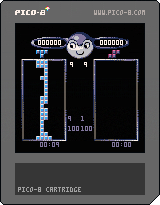
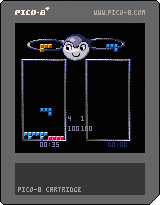
release: new html and png

Changed region(s): [[0.125, 0.1463, 0.875, 0.7317]]

diff --git a/release/tegim.js b/release/tegim.js
@@ -68,28 +68,28 @@ var _cartdat=[
 0,0,0,0,0,0,0,0,0,0,0,0,0,0,0,0,0,16,0,0,0,0,0,0,0,0,0,0,0,0,0,0,0,0,0,0,0,0,0,0,0,0,0,0,0,0,0,0,0,0,0,0,0,0,0,0,0,0,0,0,0,0,0,0,0,0,0,0,0,0,0,0,0,0,0,0,0,0,0,0,0,0,0,0,0,16,0,0,0,0,0,0,0,0,0,0,0,0,0,0,0,0,0,0,0,0,0,0,0,0,0,0,0,0,0,0,0,0,0,0,0,0,0,0,0,0,0,0,0,0,0,0,0,0,0,0,0,0,0,0,0,0,0,0,0,0,0,0,0,0,0,0,0,16,0,0,0,0,0,0,0,0,0,0,0,0,0,0,0,0,0,0,0,0,0,0,0,0,0,0,0,0,0,0,0,0,0,0,0,0,0,0,0,0,0,0,0,0,0,0,0,0,0,0,0,0,0,0,0,0,0,0,0,0,0,0,0,0,0,0,0,16,0,0,0,0,0,0,0,0,0,0,0,0,0,0,0,0,0,0,0,0,0,0,0,0,0,0,0,0,0,0,0,0,0,0,
 0,0,0,0,0,0,0,0,0,0,0,0,0,0,0,0,0,0,0,0,0,0,0,0,0,0,0,0,0,0,0,0,0,16,0,0,0,0,0,0,0,0,0,0,0,0,0,0,0,0,0,0,0,0,0,0,0,0,0,0,0,0,0,0,0,0,0,0,0,0,0,0,0,0,0,0,0,0,0,0,0,0,0,0,0,0,0,0,0,0,0,0,0,0,0,0,0,0,0,0,0,16,0,0,0,0,0,0,0,0,0,0,0,0,0,0,0,0,0,0,0,0,0,0,0,0,0,0,0,0,0,0,0,0,0,0,0,0,0,0,0,0,0,0,0,0,0,0,0,0,0,0,0,0,0,0,0,0,0,0,0,0,0,0,0,0,0,0,0,16,0,0,0,0,0,0,0,0,0,0,0,0,0,0,0,0,0,0,0,0,0,0,0,0,0,0,0,0,0,0,0,0,0,0,0,0,0,0,0,0,0,0,0,0,0,0,0,0,0,0,0,0,0,0,0,0,0,0,0,0,0,0,0,0,0,0,0,16,0,0,0,0,0,0,0,0,0,0,0,0,0,0,0,0,0,0,
 0,0,0,0,0,0,0,0,0,0,0,0,0,0,0,0,0,0,0,0,0,0,0,0,0,0,0,0,0,0,0,0,0,0,0,0,0,0,0,0,0,0,0,0,0,0,0,0,0,16,0,0,0,0,0,0,0,0,0,0,0,0,0,0,0,0,0,0,0,0,0,0,0,0,0,0,0,0,0,0,0,0,0,0,0,0,0,0,0,0,0,0,0,0,0,0,0,0,0,0,0,0,0,0,0,0,0,0,0,0,0,0,0,0,0,0,0,16,0,0,0,0,0,0,0,0,0,0,0,0,0,0,0,0,0,0,0,0,0,0,0,0,0,0,0,0,0,0,0,0,0,0,0,0,0,0,0,0,0,0,0,0,0,0,0,0,0,0,0,0,0,0,0,0,0,0,0,0,0,0,0,0,0,0,0,16,0,0,0,0,0,0,0,0,0,0,0,0,0,0,0,0,0,0,0,0,0,0,0,0,0,0,0,0,0,0,0,0,0,0,0,0,0,0,0,0,0,0,0,0,0,0,0,0,0,0,0,0,0,0,0,0,0,0,0,0,0,0,0,0,0,0,0,16,0,0,
-0,112,120,97,87,144,21,56,103,191,194,253,103,191,194,241,47,16,237,158,29,53,69,117,192,5,43,93,16,93,255,8,215,7,233,241,121,22,212,117,245,10,143,208,71,241,109,69,24,167,177,53,194,243,223,96,226,164,179,238,105,155,179,142,50,193,78,116,82,80,60,194,204,64,31,61,195,202,76,49,180,144,101,58,2,91,225,76,184,37,21,82,118,89,17,73,7,188,133,25,194,160,208,10,169,172,100,134,98,96,99,227,53,146,168,113,209,101,94,58,205,17,85,37,16,220,20,153,181,147,164,240,82,36,16,46,5,241,255,255,25,219,167,138,68,201,241,24,162,228,71,37,77,158,64,148,252,71,231,66,129,240,41,136,255,255,79,81,242,163,85,74,143,28,57,10,47,37,74,233,12,149,146,4,213,37,74,126,40,136,255,255,255,72,165,235,29,244,219,255,73,165,183,201,26,129,103,9,83,169,244,203,250,80,16,191,35,29,241,72,165,191,11,146,226,183,180,172,84,250,33,77,46,169,244,91,102,85,214,252,175,106,121,68,229,143,17,25,243,127,250,237,21,8,255,255,
+0,112,120,97,87,195,21,66,103,191,194,253,103,191,194,241,47,16,237,158,29,53,69,117,192,5,43,93,16,93,255,8,215,7,233,241,121,22,212,117,245,10,143,208,71,241,109,69,24,167,177,53,194,243,223,96,226,164,179,238,105,155,179,142,50,193,78,116,82,80,60,194,204,64,31,61,195,202,76,49,180,144,101,58,2,91,225,76,184,37,21,82,118,89,17,73,7,188,133,25,194,160,208,10,169,172,100,134,98,96,99,227,53,146,168,113,209,101,94,58,205,17,85,37,16,220,20,153,181,147,164,240,82,36,16,46,5,241,255,255,25,219,167,138,68,201,241,24,162,228,71,37,77,158,64,148,252,71,231,66,129,240,41,136,255,255,79,81,242,163,85,74,143,28,57,10,47,37,74,233,12,149,146,4,213,37,74,126,40,136,255,255,255,72,165,235,29,244,219,255,73,165,183,201,26,129,103,9,83,169,244,203,250,80,16,191,35,29,241,72,165,191,11,146,226,183,180,172,84,250,33,77,46,169,244,91,102,85,214,252,175,106,121,68,229,143,17,25,243,127,250,237,21,8,255,255,
 255,255,47,165,251,99,65,126,255,20,149,63,51,81,249,255,255,33,0,255,71,49,87,233,186,245,136,21,198,170,177,199,216,88,161,132,112,48,72,200,162,233,230,234,177,222,243,71,156,40,7,237,4,155,3,101,51,185,56,87,70,198,19,14,8,182,38,22,146,112,167,55,92,81,119,239,160,193,230,183,235,194,149,114,112,69,103,96,162,170,210,200,24,193,66,41,64,210,12,101,121,130,62,1,62,48,127,92,91,166,149,171,109,177,48,145,52,123,186,4,75,226,65,228,20,142,104,163,109,211,250,190,161,149,21,101,242,255,63,226,13,113,114,118,179,225,134,177,172,175,126,168,111,178,60,122,139,104,232,206,162,151,8,151,178,177,66,56,86,135,155,53,119,214,42,103,102,19,26,232,202,86,9,53,29,136,116,196,217,5,253,72,147,111,165,115,105,57,21,141,9,40,206,216,91,41,81,152,252,232,154,52,18,37,127,196,132,253,37,38,254,168,47,232,158,39,72,226,141,5,9,241,63,91,83,221,194,128,30,249,97,239,151,72,163,181,126,96,80,99,252,199,212,202,64,242,
 20,34,1,2,10,51,77,33,107,42,125,126,111,236,84,149,88,249,41,59,254,255,213,73,151,68,105,59,211,169,75,44,108,197,178,234,149,159,209,105,175,28,60,210,200,7,122,239,143,74,99,81,100,77,43,39,126,89,81,203,177,139,22,58,229,241,75,119,204,37,26,246,237,6,194,9,253,170,56,223,240,81,90,213,107,99,134,41,165,50,234,66,149,107,109,164,73,107,251,185,82,63,99,161,119,252,210,48,91,9,147,1,207,111,160,203,220,17,122,110,45,112,101,218,13,103,67,3,106,154,89,48,117,165,9,198,188,151,239,116,2,251,81,22,255,4,27,86,54,170,169,149,96,168,95,144,245,216,89,212,211,79,244,12,139,15,49,218,151,143,97,140,201,124,85,87,31,106,193,187,69,44,145,31,219,35,1,131,112,232,161,204,50,140,144,110,175,168,40,253,8,236,86,77,223,136,15,238,102,210,227,140,164,199,255,255,255,127,6,210,227,185,180,144,30,135,116,98,182,80,15,141,6,66,8,43,139,59,171,225,193,35,101,243,4,99,241,114,150,222,25,117,171,123,245,224,
 177,213,246,100,176,81,86,183,6,58,129,201,96,43,199,32,17,84,76,183,201,242,66,87,86,97,90,68,121,55,209,200,102,13,47,45,37,227,85,215,205,84,197,104,232,140,166,88,74,226,144,240,4,6,70,154,173,86,54,30,158,154,28,153,16,19,104,219,137,233,114,166,156,92,90,160,160,48,213,13,220,10,15,175,133,196,77,51,2,106,33,156,22,166,21,64,66,225,10,180,90,34,117,126,73,136,162,167,160,118,189,68,105,186,145,177,88,102,76,202,190,69,177,125,193,98,62,42,18,14,67,20,69,123,110,80,76,15,39,175,225,54,201,112,75,220,159,140,25,254,255,28,11,228,232,134,134,86,10,154,13,91,87,137,8,111,48,151,245,227,140,193,138,176,66,231,138,193,161,34,137,23,139,112,59,88,104,174,45,162,113,45,209,197,165,116,102,40,84,9,92,219,19,185,219,107,45,125,130,165,207,8,100,194,255,91,151,40,151,23,255,255,87,132,252,154,81,28,150,23,255,255,75,56,252,147,47,255,4,198,255,31,194,231,255,31,129,241,255,191,164,186,164,106,154,125,
-10,24,152,147,167,245,92,233,137,133,9,207,152,82,218,117,116,120,114,100,148,45,68,116,29,101,164,47,104,47,72,210,68,46,28,213,154,96,190,149,96,21,31,202,141,112,15,154,195,70,70,90,76,13,63,244,229,186,120,122,89,104,60,106,65,213,173,197,146,80,120,234,78,37,20,115,2,84,196,221,104,149,99,99,198,247,161,242,64,225,224,66,56,252,231,185,190,15,33,135,87,95,60,187,182,15,236,134,42,134,95,12,36,14,218,18,75,231,150,161,72,252,143,130,121,135,20,198,127,240,138,184,180,25,230,244,217,100,124,5,181,231,230,206,157,50,181,164,110,19,69,209,200,222,176,124,71,56,123,138,137,136,61,252,144,23,197,55,113,75,151,7,218,196,255,40,69,196,91,233,173,79,112,246,209,103,63,68,165,72,254,236,44,8,146,63,164,61,178,51,32,61,254,131,84,197,165,51,126,28,226,171,128,86,195,134,137,36,68,71,28,50,226,175,15,100,196,175,96,225,114,17,129,5,17,241,199,72,164,28,132,142,226,212,71,175,66,208,236,242,252,226,136,72,249,108,
-31,70,17,255,111,228,16,127,228,212,160,63,60,72,21,36,85,16,98,114,88,61,169,18,142,209,106,103,231,152,32,208,250,88,143,82,205,240,3,195,66,215,108,164,32,86,14,72,8,42,13,159,146,213,42,29,193,100,183,189,112,195,248,54,25,136,107,72,94,214,44,18,211,84,23,50,236,252,233,204,110,230,195,178,142,202,226,200,179,120,88,83,92,171,34,67,194,226,115,84,125,137,218,248,159,177,13,181,241,115,88,108,76,49,253,24,83,76,110,35,197,244,255,151,102,168,98,186,139,66,49,253,255,157,40,166,43,80,76,159,96,122,2,193,244,255,119,32,152,126,56,86,48,125,98,227,170,197,198,111,189,68,249,249,147,101,197,7,123,227,255,255,167,133,179,160,162,38,134,240,209,212,208,25,44,52,226,250,128,192,88,96,122,194,226,248,63,138,25,209,22,137,150,84,252,5,179,226,87,172,98,168,90,27,100,170,22,34,59,148,20,254,57,18,110,4,238,88,19,8,135,182,180,64,112,50,114,14,56,133,148,35,43,16,58,254,105,144,255,255,255,255,255,141,108,225,
-31,80,132,255,227,144,81,117,124,11,121,32,230,32,61,5,1,84,112,28,232,132,95,148,57,118,128,122,77,44,235,143,77,69,150,91,246,147,34,15,100,252,229,26,42,11,212,10,143,48,132,84,248,99,10,244,10,84,21,143,90,148,172,248,99,43,9,2,93,177,43,110,11,3,110,17,167,33,10,186,17,118,148,152,137,58,237,9,49,172,8,32,139,64,118,49,145,143,199,126,106,190,227,55,20,34,31,49,57,135,5,189,15,110,24,208,16,86,123,84,12,111,173,24,254,115,121,79,147,200,135,2,237,143,110,189,92,50,209,234,212,67,129,32,35,91,241,232,24,196,119,220,46,212,80,188,68,150,173,71,175,16,69,39,68,231,43,39,20,15,80,85,155,209,27,232,121,20,71,97,227,240,77,139,55,204,111,179,105,137,38,214,254,61,54,186,167,16,193,45,54,165,61,67,65,45,81,143,3,78,8,206,16,13,19,244,23,211,11,214,3,99,117,37,200,47,232,16,209,43,156,60,64,67,72,75,226,140,33,193,2,55,110,186,137,48,196,41,150,31,253,16,97,35,253,240,
-255,63,68,238,111,182,35,191,157,182,184,30,134,65,145,134,109,50,136,177,227,243,229,89,56,18,78,211,29,212,108,29,145,100,26,241,17,19,239,120,145,68,145,237,53,116,8,32,14,236,38,42,99,228,77,172,53,14,255,170,141,215,182,122,227,191,132,69,21,199,143,188,30,57,225,144,78,113,124,194,242,151,36,186,65,109,156,253,172,34,58,177,153,124,34,161,71,232,153,67,89,78,235,52,23,63,175,244,180,52,169,64,176,33,229,23,237,123,69,95,105,240,57,186,73,230,251,66,240,199,176,130,111,241,1,154,195,154,225,112,172,102,176,97,69,226,128,72,88,36,201,30,201,13,42,225,34,101,241,163,154,41,150,58,87,207,187,30,7,204,40,112,11,247,95,104,39,126,72,234,164,48,78,32,221,225,45,24,32,135,82,172,107,36,246,33,214,183,186,80,133,181,110,24,158,137,225,183,176,231,166,164,146,39,119,179,205,144,110,197,37,29,148,105,134,136,41,26,170,195,64,1,21,90,49,84,227,8,33,5,122,105,210,37,58,232,223,25,50,232,223,104,221,108,10,155,
-17,177,65,49,180,157,68,23,72,241,159,248,40,254,74,207,99,235,170,59,230,22,123,249,120,2,159,152,58,117,212,12,78,110,108,40,132,31,226,157,2,226,209,231,159,239,163,34,177,20,172,45,147,88,177,245,33,57,45,25,254,41,79,121,90,62,252,135,228,248,31,249,240,7,2,130,21,205,33,241,63,219,67,177,220,206,22,44,167,173,245,202,97,89,237,240,91,109,252,135,118,248,33,240,135,156,132,133,20,58,117,198,71,50,229,3,111,130,169,113,16,11,127,168,181,252,129,55,241,145,76,89,152,119,97,19,239,138,133,218,66,59,6,24,137,4,196,59,108,170,5,120,11,31,199,141,87,77,252,26,218,28,236,81,44,252,3,242,18,220,20,239,198,200,102,238,39,81,242,99,116,168,43,233,170,60,26,158,238,165,189,64,95,235,136,28,2,48,68,161,119,33,197,88,58,252,81,64,63,78,18,27,17,142,199,37,83,51,11,43,146,227,38,129,0,234,51,47,146,10,192,109,112,26,64,129,249,127,203,152,151,51,72,181,138,133,206,15,234,50,38,240,240,255,64,12,
-243,170,190,139,191,195,31,91,181,197,154,20,251,163,183,110,217,200,120,88,211,31,206,215,232,100,85,201,250,199,26,83,33,215,150,111,102,140,82,202,3,162,228,148,254,88,107,70,138,42,217,240,149,96,56,197,63,14,151,11,47,236,144,27,110,201,191,50,21,25,47,91,154,14,140,117,248,22,176,66,147,37,211,179,83,20,106,94,115,131,83,56,37,219,169,89,186,190,166,216,126,43,11,165,114,237,255,31,248,52,183,72,126,169,213,124,172,97,34,170,94,113,109,101,253,40,69,105,195,159,176,108,110,204,54,255,235,252,141,67,149,248,237,190,54,128,186,240,153,74,204,189,138,245,255,72,211,220,132,106,254,215,252,94,111,170,162,225,217,241,83,38,190,40,119,194,150,99,128,85,76,27,231,15,83,149,67,129,124,99,73,179,127,128,120,24,183,140,211,161,242,225,255,95,38,42,31,178,148,131,251,201,15,9,244,201,175,71,244,159,194,249,167,2,35,21,35,241,239,193,37,168,89,254,224,222,145,61,38,221,97,175,11,68,209,43,137,254,97,102,145,252,249,37,38,118,
-0,21,158,7,184,70,26,252,39,143,220,216,152,74,60,195,96,118,42,88,87,42,27,143,246,193,225,28,29,9,135,83,203,76,61,191,18,243,175,198,147,115,96,106,20,124,203,79,102,63,150,151,88,146,8,85,126,142,228,235,228,200,198,214,134,142,81,81,147,144,255,43,100,34,21,18,133,61,250,148,211,56,2,227,143,84,216,14,192,148,18,73,40,168,25,41,123,54,40,148,164,239,255,40,153,83,224,77,234,159,4,31,254,160,123,184,156,213,140,194,90,248,116,22,71,104,77,28,42,193,195,42,225,199,5,42,225,79,162,37,254,236,107,137,63,141,226,248,211,133,146,227,79,37,19,126,237,42,147,63,231,168,137,95,210,228,87,38,115,254,236,170,137,95,195,106,232,151,132,249,69,158,226,211,67,149,77,191,186,74,17,253,210,58,191,10,229,244,43,17,88,191,10,81,244,79,21,253,11,100,209,191,68,140,253,10,148,204,175,162,84,128,191,18,41,243,75,38,252,211,147,191,132,214,191,32,10,20,212,255,187,40,120,250,60,202,232,255,138,2,65,202,35,120,254,55,
-17,30,127,154,78,127,254,138,154,78,167,254,201,164,204,191,18,95,205,35,161,25,5,34,250,159,106,252,21,20,58,250,87,39,202,127,21,226,247,95,33,146,127,69,153,230,254,149,201,188,127,165,72,249,87,72,214,95,97,39,90,255,37,66,254,167,240,249,215,201,229,95,50,133,168,51,62,74,24,66,216,241,135,83,204,224,196,208,70,179,39,0,200,160,27,193,63,28,246,18,60,191,143,105,11,197,127,40,135,255,137,149,195,191,64,57,252,146,247,200,169,48,97,199,239,146,32,47,253,163,71,131,180,86,18,63,201,233,60,98,165,181,228,248,153,75,142,55,80,61,95,42,57,126,6,226,229,103,32,94,222,64,73,252,63,91,25,244,179,83,90,127,26,189,244,87,230,252,138,149,213,95,213,255,167,172,149,211,95,233,244,235,18,169,240,87,85,255,74,10,253,241,151,100,195,175,162,16,53,127,59,1,242,79,40,253,13,85,205,175,68,157,253,237,100,205,63,73,248,23,70,195,191,40,209,153,127,129,52,252,43,138,36,145,226,63,130,36,78,164,248,11,29,227,231,102,
-48,60,131,135,36,179,107,215,76,12,207,21,152,36,96,170,68,179,163,74,152,108,45,41,230,113,66,5,196,81,80,45,141,6,203,193,105,137,201,174,97,53,70,236,15,183,120,67,190,227,132,193,244,40,140,28,55,116,143,47,170,86,200,134,252,132,1,242,203,56,34,101,85,22,70,241,1,23,36,181,82,65,214,173,39,201,104,113,89,110,137,52,203,155,46,26,0,228,113,130,233,82,213,248,57,55,20,146,150,155,107,77,163,30,163,196,101,94,201,240,255,73,32,133,252,178,127,104,182,60,230,100,100,51,177,33,181,178,178,31,204,55,250,166,207,240,74,165,26,204,59,14,81,127,146,104,34,232,92,103,94,84,31,255,35,11,205,166,226,55,221,42,209,77,250,163,215,126,51,116,154,170,35,152,164,144,82,202,222,9,211,123,9,0,153,102,125,179,58,201,171,234,193,87,244,119,169,90,24,88,89,217,8,37,169,148,205,179,162,45,254,114,136,58,79,192,125,113,106,9,11,5,97,186,120,140,45,50,164,140,15,187,8,158,255,64,26,150,112,101,66,248,252,255,47,182,
-36,115,31,68,163,132,161,153,55,205,174,73,97,84,149,243,91,193,159,58,229,151,194,251,171,202,230,42,66,53,143,64,255,230,253,74,172,230,191,229,190,64,104,221,36,61,126,200,245,108,8,135,193,139,130,180,176,148,165,115,23,146,0,60,210,35,67,38,127,127,8,253,63,176,123,212,86,24,33,110,206,91,86,34,2,58,245,12,223,192,198,131,250,115,218,4,36,150,190,162,216,183,68,181,194,125,227,255,163,19,152,152,47,73,150,69,231,31,249,200,170,146,38,255,33,199,65,152,75,4,164,212,111,77,154,82,56,31,100,158,10,185,76,228,142,48,149,159,229,237,25,239,171,38,54,133,96,175,129,101,134,59,194,98,106,112,95,90,43,146,93,184,100,109,174,143,38,181,5,170,57,225,119,72,125,113,51,179,4,193,208,140,75,246,68,156,213,155,146,68,68,253,80,8,19,227,148,81,233,155,198,130,189,247,240,36,28,126,35,181,64,243,225,136,90,148,76,121,15,128,202,99,56,194,29,191,162,204,89,66,168,77,100,229,126,74,59,97,171,219,82,45,83,67,205,50,
-43,11,132,131,160,20,11,234,89,202,220,164,26,183,171,68,56,49,216,168,144,71,98,210,122,82,164,230,148,16,82,14,148,21,133,218,37,119,161,244,58,8,229,164,245,20,255,156,105,28,227,187,57,12,137,235,230,88,19,59,228,191,112,9,39,50,82,35,90,48,89,50,247,252,51,103,121,122,10,174,139,44,237,88,50,14,143,194,34,189,176,98,88,75,227,168,93,201,113,147,182,152,146,57,236,50,42,149,46,248,41,181,219,170,188,131,221,180,87,160,65,108,104,178,110,166,146,165,253,205,209,170,145,247,40,22,68,10,201,45,77,240,13,220,210,171,103,94,30,108,10,138,1,51,93,225,4,108,57,57,164,247,22,100,177,207,178,132,197,30,203,1,25,251,101,124,42,134,135,34,89,203,89,145,126,183,7,65,249,121,37,194,31,230,77,255,227,62,223,209,199,122,165,196,255,135,194,211,237,62,223,129,204,250,137,94,226,31,189,134,255,23,141,137,255,55,225,132,199,81,204,202,94,232,16,127,249,131,125,59,201,126,224,121,240,51,187,69,212,47,243,255,145,108,167,57,
-85,243,39,212,211,14,196,241,226,58,166,50,68,3,65,152,40,55,204,204,228,206,208,236,16,114,88,10,147,141,78,43,34,14,171,88,202,188,152,78,126,243,41,83,208,144,177,57,25,39,16,1,207,88,83,69,37,80,40,30,113,56,30,105,219,193,152,184,217,153,85,19,154,101,25,113,110,157,115,88,228,114,7,11,29,113,52,82,88,107,140,63,130,225,164,34,244,219,125,74,98,28,93,44,87,254,255,192,59,246,135,159,204,111,193,46,102,96,90,237,146,50,40,162,161,81,207,29,0,19,129,39,4,215,168,26,6,136,178,114,192,33,23,88,161,10,199,40,79,224,16,203,249,224,124,172,50,42,102,46,67,138,16,77,49,224,96,214,21,101,47,147,112,106,106,190,104,206,145,183,153,218,77,118,166,154,155,118,36,24,146,39,152,10,151,187,12,233,152,201,174,97,240,132,73,241,159,45,82,83,146,87,247,57,232,88,254,246,83,91,51,139,172,113,126,33,157,138,100,248,91,28,196,133,230,180,243,184,142,145,110,156,26,233,53,240,213,46,211,162,181,193,252,37,151,20,
-90,254,224,87,150,156,174,154,88,249,124,44,127,78,197,23,10,96,17,58,5,0,166,11,132,253,163,209,164,18,36,133,40,39,5,73,163,88,211,164,250,49,176,130,82,40,19,66,227,255,233,122,181,189,216,248,201,27,232,20,28,213,217,191,1,221,220,42,234,147,179,88,72,53,215,255,240,17,74,160,223,95,197,253,147,166,209,255,255,255,255,255,255,255,255,47,164,140,83,137,107,101,95,151,152,173,209,15,118,112,55,164,182,191,60,155,254,255,31,44,140,255,255,167,181,59,40,252,14,186,83,115,246,37,206,71,56,186,72,23,227,255,41,222,55,161,40,82,65,195,120,188,47,77,145,202,219,225,17,24,189,28,53,43,87,228,247,40,123,51,174,56,210,246,16,138,55,127,21,67,202,67,82,234,53,191,192,160,145,181,195,95,115,50,160,155,16,251,87,11,27,32,164,171,138,67,118,192,158,22,251,255,255,255,255,255,255,255,255,255,255,255,175,20,107,95,171,158,192,84,169,93,91,64,56,175,202,250,199,180,238,21,107,87,89,234,10,234,181,255,255,255,63,43,33,128,
-146,119,33,223,223,29,136,205,133,235,231,15,100,58,75,192,15,69,212,163,29,76,54,234,69,103,71,117,248,239,144,9,110,68,255,116,244,80,220,93,138,244,127,165,199,77,222,236,145,30,255,167,60,254,19,247,206,163,133,255,75,251,158,140,7,163,165,254,31,250,232,63,170,134,218,16,5,109,25,144,253,144,79,199,50,116,171,200,167,255,200,78,16,18,255,161,153,254,255,135,138,248,31,57,242,255,17,115,167,172,249,47,29,245,159,170,225,63,117,255,27,118,200,173,126,88,123,79,5,94,230,55,199,20,18,158,248,47,237,241,255,196,125,245,199,218,125,51,169,61,254,147,166,213,23,5,234,157,75,242,93,205,220,5,84,90,50,208,244,209,106,222,85,75,89,215,103,185,72,8,149,153,236,117,97,122,72,144,53,193,126,20,103,66,48,8,28,110,113,120,74,249,143,113,195,255,255,255,255,255,21,99,135,174,160,36,63,240,37,30,84,87,254,255,128,205,240,10,255,135,128,223,167,51,158,61,220,13,181,254,195,102,231,81,212,204,203,46,8,85,8,106,65,93,233,241,
-255,255,175,1,137,22,190,135,150,64,127,206,241,103,169,79,126,143,74,36,47,139,148,95,178,107,219,170,123,138,229,255,127,161,151,250,84,102,36,247,171,131,254,112,119,249,255,143,198,92,178,205,36,9,143,233,195,184,18,160,146,113,255,71,33,239,144,115,21,45,255,255,255,214,69,255,161,96,254,255,94,224,52,146,66,98,85,121,71,138,254,147,58,255,255,136,157,63,114,231,147,180,191,64,6,254,212,114,255,255,159,106,236,63,240,202,252,192,21,246,40,241,255,39,152,135,159,42,206,242,238,164,57,243,19,213,194,35,55,254,255,39,233,170,91,110,252,196,82,241,159,250,238,63,198,172,137,28,177,139,135,12,55,192,242,108,152,216,240,226,115,241,137,169,119,164,146,8,39,250,139,211,31,201,172,140,60,230,70,52,245,31,68,75,215,86,229,129,106,155,227,157,152,35,38,193,137,247,75,100,254,21,23,255,255,75,88,252,159,60,253,169,204,255,255,144,55,127,116,13,3,16,78,172,150,66,87,179,82,11,252,51,142,213,182,223,102,230,108,152,75,55,59,146,147,225,
-211,127,139,197,255,255,39,134,255,7,20,199,255,255,255,255,255,255,255,255,255,255,71,125,254,255,69,250,226,82,246,161,192,241,255,161,143,104,84,139,98,246,245,11,227,226,63,246,153,154,93,25,5,97,51,125,61,186,48,140,135,230,134,143,1,206,231,100,41,83,96,199,82,216,135,10,129,51,10,225,111,190,48,117,128,68,232,174,136,56,85,199,228,89,213,217,39,57,178,39,57,254,142,216,115,208,254,111,190,168,88,56,41,54,126,148,53,146,195,11,35,228,217,243,246,57,135,40,98,252,131,46,245,32,235,250,160,114,158,24,192,110,251,162,154,124,155,70,170,68,251,7,80,231,31,141,242,31,80,128,94,145,242,255,63,34,149,242,255,64,60,243,201,148,47,212,76,255,1,28,232,213,76,63,241,250,221,210,225,211,76,255,99,95,205,244,71,146,138,156,219,15,238,52,19,96,191,221,201,189,210,128,170,200,129,140,250,116,196,196,254,96,186,161,169,112,85,25,88,216,133,56,242,27,100,148,118,123,4,234,199,175,30,38,222,165,31,206,89,136,122,193,251,248,40,136,
-255,255,139,212,242,135,0,249,79,161,243,83,220,62,66,232,131,66,118,40,161,137,166,31,82,232,255,127,215,66,230,255,6,17,45,125,2,226,255,255,242,109,249,244,199,255,71,9,253,255,143,101,37,116,217,255,81,140,198,87,247,223,56,43,127,18,88,248,199,87,225,136,1,43,252,63,3,194,10,55,20,133,59,160,162,112,147,94,248,19,160,94,248,143,45,29,82,46,11,255,93,128,89,248,143,5,216,150,216,100,187,240,255,208,8,2,188,240,155,175,27,85,196,128,76,212,78,128,18,30,36,11,255,197,90,233,86,16,159,160,248,65,45,240,15,33,188,95,131,115,122,236,32,30,153,101,138,65,23,122,78,31,4,246,243,89,4,199,240,19,226,167,201,49,252,255,39,80,182,207,153,238,227,87,246,63,184,18,255,186,255,82,34,135,188,253,169,20,62,254,39,255,35,208,30,113,118,35,84,248,37,250,201,214,135,110,87,18,140,92,50,80,0,94,188,105,45,252,135,128,248,221,11,136,31,59,181,252,248,255,115,68,126,252,160,207,112,202,151,255,207,160,124,57,52,89,
-37,91,5,143,182,217,86,93,90,232,206,171,77,1,89,199,16,111,212,61,224,28,255,71,64,13,170,30,42,3,94,163,245,126,209,33,61,105,183,252,167,156,112,155,164,65,145,136,137,255,132,1,244,95,86,1,0,0,0,0,0,0,0,0,0,0,0,0,0,0,0,0,0,0,0,0,0,0,0,0,0,0,0,0,0,0,0,0,0,0,0,0,0,0,0,0,0,0,0,0,0,0,0,0,0,0,0,0,0,0,0,0,0,0,0,0,0,0,0,0,0,0,0,0,0,0,0,0,0,0,0,0,0,0,0,0,0,0,0,0,0,0,0,0,0,0,0,0,0,0,0,0,0,0,0,0,0,0,0,0,0,0,0,0,0,0,0,0,0,0,0,0,0,0,0,0,0,0,0,0,0,0,0,0,0,0,0,0,0,0,0,0,0,0,0,0,0,0,0,0,0,0,0,0,0,0,0,0,0,0,0,0,0,0,0,0,0,0,0,0,0,0,0,0,0,0,0,0,0,0,0,0,0,0,0,0,0,0,0,0,0,0,0,0,0,0,0,0,0,0,0,0,0,0,0,0,
+10,24,152,147,167,245,92,233,137,133,9,207,152,82,218,117,116,120,114,100,148,45,68,116,29,101,164,47,104,47,72,210,68,46,28,213,154,96,190,149,96,21,31,202,141,112,15,154,195,70,70,90,76,13,63,244,229,186,120,122,89,104,60,106,65,213,173,197,146,80,120,234,78,37,20,115,2,84,196,221,104,149,99,99,198,247,161,242,64,225,224,66,56,252,231,185,190,15,33,135,87,95,60,187,182,15,236,134,2,128,248,131,88,98,233,220,50,9,137,255,17,45,223,144,140,248,13,107,65,35,67,147,245,138,152,152,34,227,165,104,33,126,233,152,127,132,35,62,53,135,65,69,55,225,95,9,238,193,193,115,215,76,45,194,219,68,81,180,180,184,44,248,145,239,222,98,34,198,15,63,228,69,129,79,220,186,231,193,60,241,63,218,18,19,117,122,235,19,156,125,244,217,15,81,41,146,63,99,11,130,228,15,155,143,140,13,72,143,255,96,91,113,233,140,31,151,248,42,224,219,176,105,134,9,209,17,135,140,248,235,3,25,241,43,88,184,92,68,96,65,68,252,49,146,92,19,
+108,138,83,31,189,130,238,82,194,143,237,67,53,226,255,13,41,226,143,156,26,38,136,7,194,130,164,10,26,176,14,11,55,85,194,177,186,53,178,113,77,16,224,83,192,124,52,167,25,126,128,91,232,150,141,20,196,202,90,66,80,105,248,150,108,73,215,35,216,236,198,55,143,88,31,103,9,113,237,200,203,154,69,98,154,3,67,150,157,63,157,217,201,124,89,214,81,89,28,121,22,47,107,138,107,84,100,72,88,124,142,170,79,81,27,255,179,181,161,54,126,238,138,141,41,166,31,99,138,201,109,164,152,254,255,210,12,85,76,119,81,40,166,255,191,19,197,116,5,138,233,19,76,79,32,152,254,255,14,4,211,15,199,10,166,79,108,92,181,216,248,173,151,40,63,127,210,175,248,240,112,252,255,255,180,56,23,84,212,196,16,62,254,26,186,131,158,70,92,31,116,24,11,76,79,188,28,255,199,61,35,218,34,209,146,138,191,240,87,252,138,85,12,85,107,131,76,213,66,100,135,146,194,63,71,226,144,192,33,107,2,225,208,150,22,8,78,70,238,1,167,144,114,100,5,91,
+199,63,13,242,255,255,255,255,191,145,45,252,3,138,240,127,228,50,170,142,111,33,15,40,29,164,167,32,128,10,142,3,157,240,139,75,199,46,80,175,137,101,253,49,169,200,114,204,1,73,145,7,50,254,114,13,149,5,106,133,71,24,66,42,252,49,5,122,5,170,138,71,45,74,86,252,177,149,4,129,174,216,25,199,133,1,233,136,211,16,5,15,9,59,74,204,68,157,246,134,24,111,4,32,71,0,180,195,103,63,53,223,233,11,10,145,143,150,156,195,130,220,7,23,244,26,194,106,143,138,225,109,21,195,127,14,207,105,18,249,80,160,253,209,173,151,75,22,122,157,122,40,16,100,44,44,30,29,131,246,142,219,133,26,138,151,200,178,241,232,21,162,232,128,232,124,229,132,226,1,170,106,50,122,3,61,143,226,40,208,28,190,105,240,132,245,105,154,45,209,196,154,191,199,70,247,20,34,184,197,164,180,103,40,168,37,234,177,127,65,112,133,104,152,160,191,40,96,176,30,24,171,43,65,126,65,135,136,94,225,228,190,134,144,150,196,21,67,130,5,110,220,116,19,97,136,
+83,44,63,250,33,194,70,250,225,255,127,136,220,223,52,72,126,59,109,113,60,12,131,34,13,219,100,16,124,199,231,203,179,112,36,156,166,59,168,217,186,33,201,52,226,35,38,222,237,34,137,34,219,107,232,14,164,28,216,77,84,198,88,157,88,107,28,254,85,27,175,109,245,198,127,9,139,42,142,31,121,61,114,193,29,157,226,248,132,229,47,73,116,163,221,56,251,89,69,116,130,54,249,68,66,111,208,51,135,178,156,214,105,46,126,94,233,105,105,82,129,96,67,202,47,218,247,136,190,210,224,115,116,147,204,247,133,224,143,97,5,223,226,125,205,97,205,112,56,86,51,216,176,34,113,64,36,44,146,100,143,228,4,149,112,145,178,248,81,205,20,75,157,171,231,93,143,3,102,20,184,133,251,47,180,19,63,36,117,82,124,39,144,238,240,22,62,144,67,41,214,53,18,251,16,235,91,93,168,194,90,55,12,207,196,240,91,216,115,83,82,201,147,187,217,102,72,183,226,146,14,202,52,67,196,20,13,213,97,160,128,10,173,24,170,113,132,144,2,189,52,233,18,29,244,239,
+10,25,244,111,180,110,54,133,205,24,218,160,24,226,117,65,41,254,7,31,197,95,233,121,44,93,117,198,216,94,45,31,79,224,19,83,167,142,154,185,193,133,5,133,240,67,188,83,64,60,250,252,243,125,84,36,118,130,173,93,118,43,182,62,36,167,37,195,63,229,41,79,203,135,255,144,28,255,35,31,254,64,64,176,162,57,36,254,103,123,40,150,219,217,130,229,180,181,94,57,44,171,29,126,171,141,255,208,14,63,4,254,32,149,176,144,66,167,206,248,216,167,124,168,78,48,52,13,98,225,15,231,150,63,240,38,62,246,41,11,243,46,108,226,85,177,80,91,104,199,32,38,145,128,120,103,77,117,3,188,133,143,227,198,171,38,126,237,76,238,245,40,22,254,33,124,9,110,138,119,99,100,50,247,147,40,249,177,57,212,149,60,86,30,13,79,247,210,94,160,175,117,68,238,64,30,162,208,187,88,99,44,29,254,40,160,31,39,137,141,8,199,227,144,169,153,133,21,201,113,147,64,0,157,135,139,24,204,255,75,177,188,68,66,14,144,8,162,253,113,50,174,56,148,205,15,
+145,214,101,218,12,255,65,37,230,175,236,187,0,60,252,177,85,28,143,105,177,63,130,235,214,141,172,135,69,253,225,124,141,78,86,149,174,127,172,177,85,162,112,249,118,214,192,166,60,236,74,78,237,143,185,102,165,168,146,17,95,9,134,83,253,227,112,185,240,210,14,185,121,152,252,43,83,145,241,226,168,233,194,90,39,187,48,3,160,37,211,179,91,224,106,94,115,147,83,56,133,220,169,89,58,62,71,99,230,22,8,85,22,73,133,105,137,73,252,63,120,213,220,42,249,5,93,243,225,137,137,168,122,213,181,165,245,163,16,165,13,127,242,181,185,201,220,252,175,243,167,58,31,221,240,43,13,168,46,124,166,18,115,175,98,253,63,56,53,55,212,154,255,53,191,199,147,168,104,128,118,252,148,137,47,253,157,192,229,24,147,21,3,202,249,131,97,229,80,32,223,88,210,204,239,139,135,129,203,56,29,42,31,254,255,197,168,242,81,78,57,192,159,252,144,64,159,232,255,31,225,252,83,129,17,164,145,144,249,224,16,58,45,127,8,241,200,30,147,238,176,215,1,162,232,149,
+68,255,200,180,72,254,252,18,19,219,7,201,243,16,215,72,195,255,228,145,27,219,82,137,103,24,204,46,5,227,74,101,55,68,251,172,113,142,14,133,195,169,101,166,158,95,137,249,87,227,201,57,52,53,202,202,229,39,230,31,203,75,12,73,132,42,63,71,242,117,114,100,91,99,59,55,169,168,73,200,255,21,50,145,10,137,194,158,125,202,105,28,129,241,71,42,108,134,96,74,137,36,148,237,140,148,61,27,122,74,210,247,127,148,204,41,240,38,245,79,132,15,127,216,61,92,206,106,54,97,45,124,58,139,35,184,38,14,149,224,97,149,240,227,2,149,240,39,209,18,127,14,208,18,127,26,197,241,167,11,37,199,159,74,38,252,154,85,38,127,174,81,19,191,164,201,175,76,230,252,153,85,19,191,118,213,208,47,9,243,11,61,197,167,135,42,155,126,117,149,34,250,165,117,126,21,202,233,87,34,176,126,21,162,232,159,42,250,23,200,162,127,137,24,251,21,40,153,95,69,169,0,127,37,82,230,151,76,248,167,39,127,9,173,127,65,20,40,168,255,119,81,32,248,121,148,
+209,255,21,5,131,148,71,240,252,111,34,60,254,52,157,254,252,21,53,157,78,253,147,73,153,127,37,241,154,71,66,51,10,68,244,63,213,248,43,40,116,244,175,78,148,255,42,196,239,191,66,36,255,138,50,205,253,43,147,121,255,74,145,242,175,144,172,191,194,78,180,254,75,132,252,79,225,243,175,147,203,191,100,10,89,103,124,152,48,196,176,227,15,168,152,209,137,161,141,86,79,32,144,65,55,130,127,56,236,37,120,126,223,210,22,138,255,80,14,255,19,43,135,127,129,114,248,37,239,145,131,100,194,142,223,37,65,94,96,72,143,6,105,173,36,126,194,214,121,196,74,107,201,241,51,151,28,111,160,122,190,84,114,252,12,196,203,207,64,188,188,129,146,248,127,182,50,232,103,167,180,254,52,122,233,175,204,249,21,43,171,191,170,255,79,89,43,167,191,210,233,215,37,82,225,175,170,254,149,20,250,227,47,201,134,95,69,33,106,254,118,2,228,159,80,250,27,170,154,95,137,58,251,219,201,154,127,146,240,47,140,134,127,81,162,51,255,2,105,248,87,20,73,34,197,127,
+4,73,156,72,241,23,58,198,207,237,96,120,134,15,73,102,215,142,153,24,158,43,48,73,192,84,137,102,71,149,96,220,90,82,204,19,136,10,187,163,208,93,26,14,150,3,237,18,147,93,195,106,140,216,31,110,241,134,124,199,9,131,233,81,24,57,110,72,30,95,84,173,160,13,249,73,3,228,151,113,68,202,170,44,140,226,3,46,72,106,165,130,172,91,79,146,209,226,178,220,18,105,150,55,93,52,0,200,227,100,217,165,170,241,115,110,40,38,45,55,216,154,70,61,70,137,203,188,146,225,255,147,80,10,249,101,255,224,108,121,204,9,201,102,98,67,106,101,101,63,152,111,244,77,159,17,153,74,53,152,119,232,162,254,36,209,68,208,185,206,188,168,62,254,71,22,154,77,197,111,32,86,2,162,244,71,175,253,198,238,52,85,71,150,73,129,171,148,189,19,166,247,18,2,50,205,250,102,117,18,113,213,67,188,232,239,82,181,48,176,178,178,17,74,82,41,155,103,69,91,252,69,23,117,158,128,251,226,212,18,22,10,194,116,241,24,91,100,72,25,31,118,17,60,255,65,
+65,44,225,202,132,240,249,255,95,112,73,230,62,238,70,9,67,51,111,154,93,147,194,168,42,231,183,130,63,117,202,47,133,247,87,149,205,85,136,106,30,129,254,205,251,21,89,205,127,203,125,177,211,186,73,122,252,144,235,217,16,14,227,29,5,105,97,41,75,231,46,36,1,171,164,71,134,76,254,254,16,250,127,104,247,168,173,48,66,220,104,184,172,68,196,128,234,25,190,129,141,7,245,231,180,9,224,45,125,69,177,111,137,106,133,251,198,255,71,39,48,49,95,146,44,139,206,63,242,145,85,37,77,254,67,142,3,74,151,160,73,169,223,154,52,165,112,62,96,62,149,139,153,208,29,97,42,63,203,219,51,222,87,13,121,10,193,94,195,215,12,119,132,197,212,224,190,180,86,36,187,112,201,218,92,31,77,106,11,84,115,194,239,144,250,66,109,102,9,130,161,25,151,236,137,56,171,55,37,137,136,250,161,16,38,198,41,163,210,55,141,5,123,239,225,73,56,252,70,106,129,230,35,24,181,40,153,242,30,22,149,199,112,132,59,126,69,153,179,132,80,155,200,202,253,148,
+118,194,86,183,165,90,166,134,154,101,86,22,8,7,116,41,22,160,180,148,185,73,53,110,87,137,112,98,176,81,33,143,196,164,245,164,72,205,41,33,164,28,40,43,202,193,75,238,162,239,117,32,202,73,235,41,0,58,211,56,230,119,115,24,146,215,205,177,38,118,200,127,225,18,78,196,170,70,26,97,178,100,238,249,103,206,242,244,20,93,23,89,218,177,100,28,30,133,69,224,97,37,183,150,198,81,187,146,227,38,109,49,37,115,216,101,84,42,93,240,83,106,183,85,121,7,187,105,175,64,131,216,208,100,221,76,37,75,251,155,163,85,35,239,81,44,136,20,178,120,154,224,27,185,165,87,207,188,8,217,20,20,3,102,186,194,9,220,114,114,72,239,45,46,99,159,101,161,140,61,150,99,56,246,203,248,84,12,15,120,178,150,179,34,253,110,207,162,242,243,74,132,63,208,155,254,199,125,190,3,150,245,74,137,255,15,134,167,219,125,190,99,159,245,19,189,196,63,122,13,255,47,26,19,255,111,194,9,143,163,48,151,189,208,33,254,34,11,251,118,146,253,192,243,64,110,
+118,139,168,95,230,255,35,217,78,115,170,230,79,168,167,29,136,227,197,117,178,101,136,6,130,48,81,110,152,153,201,157,161,217,33,228,176,20,38,27,157,86,68,28,86,177,148,121,49,157,252,70,90,166,160,65,99,115,50,78,32,3,158,145,170,138,74,160,80,60,226,112,60,210,182,131,49,113,227,54,171,38,52,254,50,18,224,58,231,72,202,229,14,24,58,34,86,165,176,214,24,127,4,195,137,69,232,183,251,148,196,56,186,88,174,252,255,65,132,236,15,63,153,223,130,93,152,193,180,218,37,101,80,68,67,163,158,59,0,38,2,79,8,174,81,53,12,168,102,229,128,67,46,176,66,21,142,81,158,192,33,150,243,193,249,88,101,84,204,92,134,20,33,154,98,140,194,172,43,202,94,38,225,212,212,124,209,156,35,111,51,181,155,236,76,53,55,237,72,48,36,79,48,21,46,119,25,5,50,195,96,195,224,9,147,226,63,91,168,166,36,175,238,115,208,177,252,237,167,182,102,22,97,227,252,98,58,21,201,240,183,56,136,11,205,105,231,113,29,35,221,56,53,210,107,120,
+173,93,166,69,107,131,249,75,46,41,180,252,129,188,44,57,144,53,193,242,249,96,254,156,138,47,224,192,34,116,202,12,76,23,8,251,71,163,73,37,72,10,81,78,10,146,70,73,168,73,245,99,96,133,165,80,38,132,198,255,211,245,106,123,177,241,19,56,208,41,56,170,179,127,3,186,185,85,212,39,103,177,144,106,174,255,1,36,148,64,191,191,138,251,39,78,163,255,255,255,255,255,255,255,255,95,72,25,167,18,215,202,190,46,49,92,163,31,184,225,110,174,109,127,129,54,253,255,63,88,24,255,255,79,107,119,80,248,29,120,167,230,236,75,156,143,112,116,145,46,198,255,83,188,111,66,81,164,130,134,241,120,95,154,34,149,183,195,35,56,122,57,106,86,174,200,239,81,246,102,92,113,164,237,33,20,111,254,42,134,148,135,164,212,107,126,177,68,35,107,135,191,230,196,70,55,33,246,175,22,54,160,78,87,21,135,236,128,61,45,246,255,255,255,255,255,255,255,255,255,255,255,95,41,214,190,86,61,129,169,82,187,182,128,112,94,149,245,15,131,221,43,214,174,178,212,
+21,212,107,255,255,255,127,86,66,0,37,239,66,190,191,59,16,155,11,215,207,31,46,117,150,128,31,139,168,71,59,24,109,212,75,219,142,234,240,223,33,19,52,137,254,233,232,209,187,187,20,233,255,74,143,27,214,217,35,61,254,79,121,252,39,238,157,71,11,255,151,246,61,177,16,70,75,253,63,244,209,127,84,13,181,33,10,218,66,32,251,33,159,142,101,234,86,145,79,255,145,157,32,36,254,67,51,253,255,15,21,241,63,114,228,255,35,230,78,89,243,95,58,234,63,85,195,127,234,254,55,236,152,91,253,176,246,158,10,188,204,111,142,41,36,60,241,95,218,227,255,201,251,234,143,181,251,102,82,123,252,39,78,171,47,10,212,59,151,228,187,154,185,11,168,180,100,160,233,163,213,188,171,150,178,174,207,114,145,16,42,51,217,235,194,244,144,32,107,130,253,40,206,132,96,16,56,220,226,240,148,242,31,227,134,255,255,255,255,255,43,198,14,93,65,73,126,16,79,60,168,174,252,255,1,155,225,21,254,15,52,191,79,103,60,123,184,27,106,253,135,205,206,163,168,153,
+151,93,16,170,16,212,130,186,210,227,255,255,95,3,18,45,72,16,45,129,254,156,227,207,82,159,252,30,149,72,94,22,41,191,100,215,182,85,247,20,203,255,255,98,47,245,169,204,72,238,87,7,253,225,238,242,255,31,192,185,100,155,73,18,30,211,135,113,37,64,37,227,254,15,92,222,33,231,42,90,254,255,255,173,139,254,67,193,252,255,189,192,105,36,133,196,170,242,142,20,253,39,117,254,255,17,59,127,228,206,39,105,127,177,15,252,169,229,254,255,63,213,216,127,224,149,249,193,43,236,81,226,255,79,48,15,63,85,156,229,221,73,115,230,39,170,133,71,110,252,255,79,212,85,183,220,248,137,165,226,63,245,221,127,140,89,147,82,98,23,15,25,110,24,231,217,48,177,225,197,231,226,19,83,239,72,37,17,78,244,23,167,63,146,89,25,121,204,141,104,234,63,136,150,174,173,202,3,213,54,5,60,97,74,76,66,32,239,151,200,252,43,46,254,255,151,176,248,63,121,250,83,153,255,255,33,111,254,232,26,6,32,156,88,45,133,174,134,165,22,250,103,28,171,109,191,
+205,204,217,48,151,110,118,36,39,195,167,255,22,139,255,255,79,12,255,15,40,142,255,255,255,255,255,255,255,255,255,255,143,250,252,255,139,244,197,165,236,67,129,227,255,3,44,209,116,23,5,237,235,23,249,197,127,184,52,53,187,50,10,194,102,250,122,116,97,24,15,205,13,31,67,156,207,201,82,166,192,142,165,176,15,21,2,103,20,194,223,124,97,234,0,137,208,93,17,113,170,142,201,179,170,179,79,114,100,79,114,252,29,177,231,160,253,223,124,81,177,112,82,108,252,40,107,138,135,23,121,200,179,231,237,115,14,81,196,248,7,93,234,65,214,245,113,232,60,57,128,221,246,165,59,249,54,141,84,137,246,15,211,206,63,26,229,63,160,0,189,34,229,255,127,68,42,229,255,129,120,230,147,41,95,168,153,254,3,56,208,171,153,126,242,245,187,165,195,167,153,254,199,190,154,233,143,36,21,58,183,31,220,105,38,192,126,187,19,149,165,1,85,17,4,25,245,233,56,138,253,193,116,67,83,225,170,50,176,176,139,138,228,55,8,41,237,246,8,212,143,95,61,77,188,75,
+63,156,179,20,245,66,4,242,81,16,255,255,151,194,229,15,1,242,159,66,231,167,184,125,132,208,71,239,210,74,136,162,233,135,20,250,255,223,181,144,249,191,65,68,75,159,128,248,255,191,124,91,62,253,241,255,81,66,255,255,99,89,9,93,246,127,20,163,249,213,253,55,1,203,159,4,22,254,241,85,56,98,192,10,255,207,128,176,194,13,69,225,14,168,40,220,164,23,254,4,168,23,254,99,75,135,148,203,194,127,23,96,22,254,99,129,207,37,54,217,46,252,63,52,130,0,47,252,6,236,70,21,49,32,19,181,19,160,132,7,201,194,127,177,86,186,21,196,39,40,126,96,11,252,131,8,239,215,224,156,30,59,32,73,102,153,98,208,69,171,211,7,177,0,125,22,193,49,252,228,254,105,114,12,255,255,9,148,237,131,166,251,248,149,253,15,175,196,191,238,191,148,200,33,111,127,42,133,143,255,201,255,8,180,71,156,221,8,21,126,137,126,178,245,161,219,149,4,35,151,12,20,132,23,111,90,11,255,33,32,126,247,2,226,199,78,45,63,254,255,28,145,31,63,232,51,
+156,242,229,255,51,40,95,14,77,86,201,86,193,163,109,182,85,151,22,186,243,106,83,64,214,49,200,27,117,15,57,199,255,17,80,163,170,135,202,128,215,104,189,95,64,73,79,218,45,255,41,39,220,38,105,80,36,98,226,63,97,0,253,151,85,0,0,0,0,0,0,0,0,0,0,0,0,0,0,0,0,0,0,0,0,0,0,0,0,0,0,0,0,0,0,0,0,0,0,0,0,0,0,0,0,0,0,0,0,0,0,0,0,0,0,0,0,0,0,0,0,0,0,0,0,0,0,0,0,0,0,0,0,0,0,0,0,0,0,0,0,0,0,0,0,0,0,0,0,0,0,0,0,0,0,0,0,0,0,0,0,0,0,0,0,0,0,0,0,0,0,0,0,0,0,0,0,0,0,0,0,0,0,0,0,0,0,0,0,0,0,0,0,0,0,0,0,0,0,0,0,0,0,0,0,0,0,0,0,0,0,0,0,0,0,0,0,0,0,0,0,0,0,0,0,0,0,0,0,0,0,0,0,0,0,0,0,0,0,0,0,0,0,0,0,0,0,0,0,0,0,0,0,0,0,0,
 0,0,0,0,0,0,0,0,0,0,0,0,0,0,0,0,0,0,0,0,0,0,0,0,0,0,0,0,0,0,0,0,0,0,0,0,0,0,0,0,0,0,0,0,0,0,0,0,0,0,0,0,0,0,0,0,0,0,0,0,0,0,0,0,0,0,0,0,0,0,0,0,0,0,0,0,0,0,0,0,0,0,0,0,0,0,0,0,0,0,0,0,0,0,0,0,0,0,0,0,0,0,0,0,0,0,0,0,0,0,0,0,0,0,0,0,0,0,0,0,0,0,0,0,0,0,0,0,0,0,0,0,0,0,0,0,0,0,0,0,0,0,0,0,0,0,0,0,0,0,0,0,0,0,0,0,0,0,0,0,0,0,0,0,0,0,0,0,0,0,0,0,0,0,0,0,0,0,0,0,0,0,0,0,0,0,0,0,0,0,0,0,0,0,0,0,0,0,0,0,0,0,0,0,0,0,0,0,0,0,0,0,0,0,0,0,0,0,0,0,0,0,0,0,0,0,0,0,0,0,0,0,0,0,0,0,0,0,0,0,0,0,0,0,0,0,0,0,0,0,0,0,0,0,0,0,
 0,0,0,0,0,0,0,0,0,0,0,0,0,0,0,0,0,0,0,0,0,0,0,0,0,0,0,0,0,0,0,0,0,0,0,0,0,0,0,0,0,0,0,0,0,0,0,0,0,0,0,0,0,0,0,0,0,0,0,0,0,0,0,0,0,0,0,0,0,0,0,0,0,0,0,0,0,0,0,0,0,0,0,0,0,0,0,0,0,0,0,0,0,0,0,0,0,0,0,0,0,0,0,0,0,0,0,0,0,0,0,0,0,0,0,0,0,0,0,0,0,0,0,0,0,0,0,0,0,0,0,0,0,0,0,0,0,0,0,0,0,0,0,0,0,0,0,0,0,0,0,0,0,0,0,0,0,0,0,0,0,0,0,0,0,0,0,0,0,0,0,0,0,0,0,0,0,0,0,0,0,0,0,0,0,0,0,0,0,0,0,0,0,0,0,0,0,0,0,0,0,0,0,0,0,0,0,0,0,0,0,0,0,0,0,0,0,0,0,0,0,0,0,0,0,0,0,0,0,0,0,0,0,0,0,0,0,0,0,0,0,0,0,0,0,0,0,0,0,0,0,0,0,0,0,0,
 0,0,0,0,0,0,0,0,0,0,0,0,0,0,0,0,0,0,0,0,0,0,0,0,0,0,0,0,0,0,0,0,0,0,0,0,0,0,0,0,0,0,0,0,0,0,0,0,0,0,0,0,0,0,0,0,0,0,0,0,0,0,0,0,0,0,0,0,0,0,0,0,0,0,0,0,0,0,0,0,0,0,0,0,0,0,0,0,0,0,0,0,0,0,0,0,0,0,0,0,0,0,0,0,0,0,0,0,0,0,0,0,0,0,0,0,0,0,0,0,0,0,0,0,0,0,0,0,0,0,0,0,0,0,0,0,0,0,0,0,0,0,0,0,0,0,0,0,0,0,0,0,0,0,0,0,0,0,0,0,0,0,0,0,0,0,0,0,0,0,0,0,0,0,0,0,0,0,0,0,0,0,0,0,0,0,0,0,0,0,0,0,0,0,0,0,0,0,0,0,0,0,0,0,0,0,0,0,0,0,0,0,0,0,0,0,0,0,0,0,0,0,0,0,0,0,0,0,0,0,0,0,0,0,0,0,0,0,0,0,0,0,0,0,0,0,0,0,0,0,0,0,0,0,0,0,

diff --git a/release/tegim.html b/release/tegim.html
@@ -980,7 +980,7 @@ canvas{
 
 .p8_start_button{
 	cursor:pointer;
[2 lines of base64/hex data omitted]
 	-repeat center;
 	-webkit-background-size:cover; -moz-background-size:cover; -o-background-size:cover; background-size:cover;
 }
